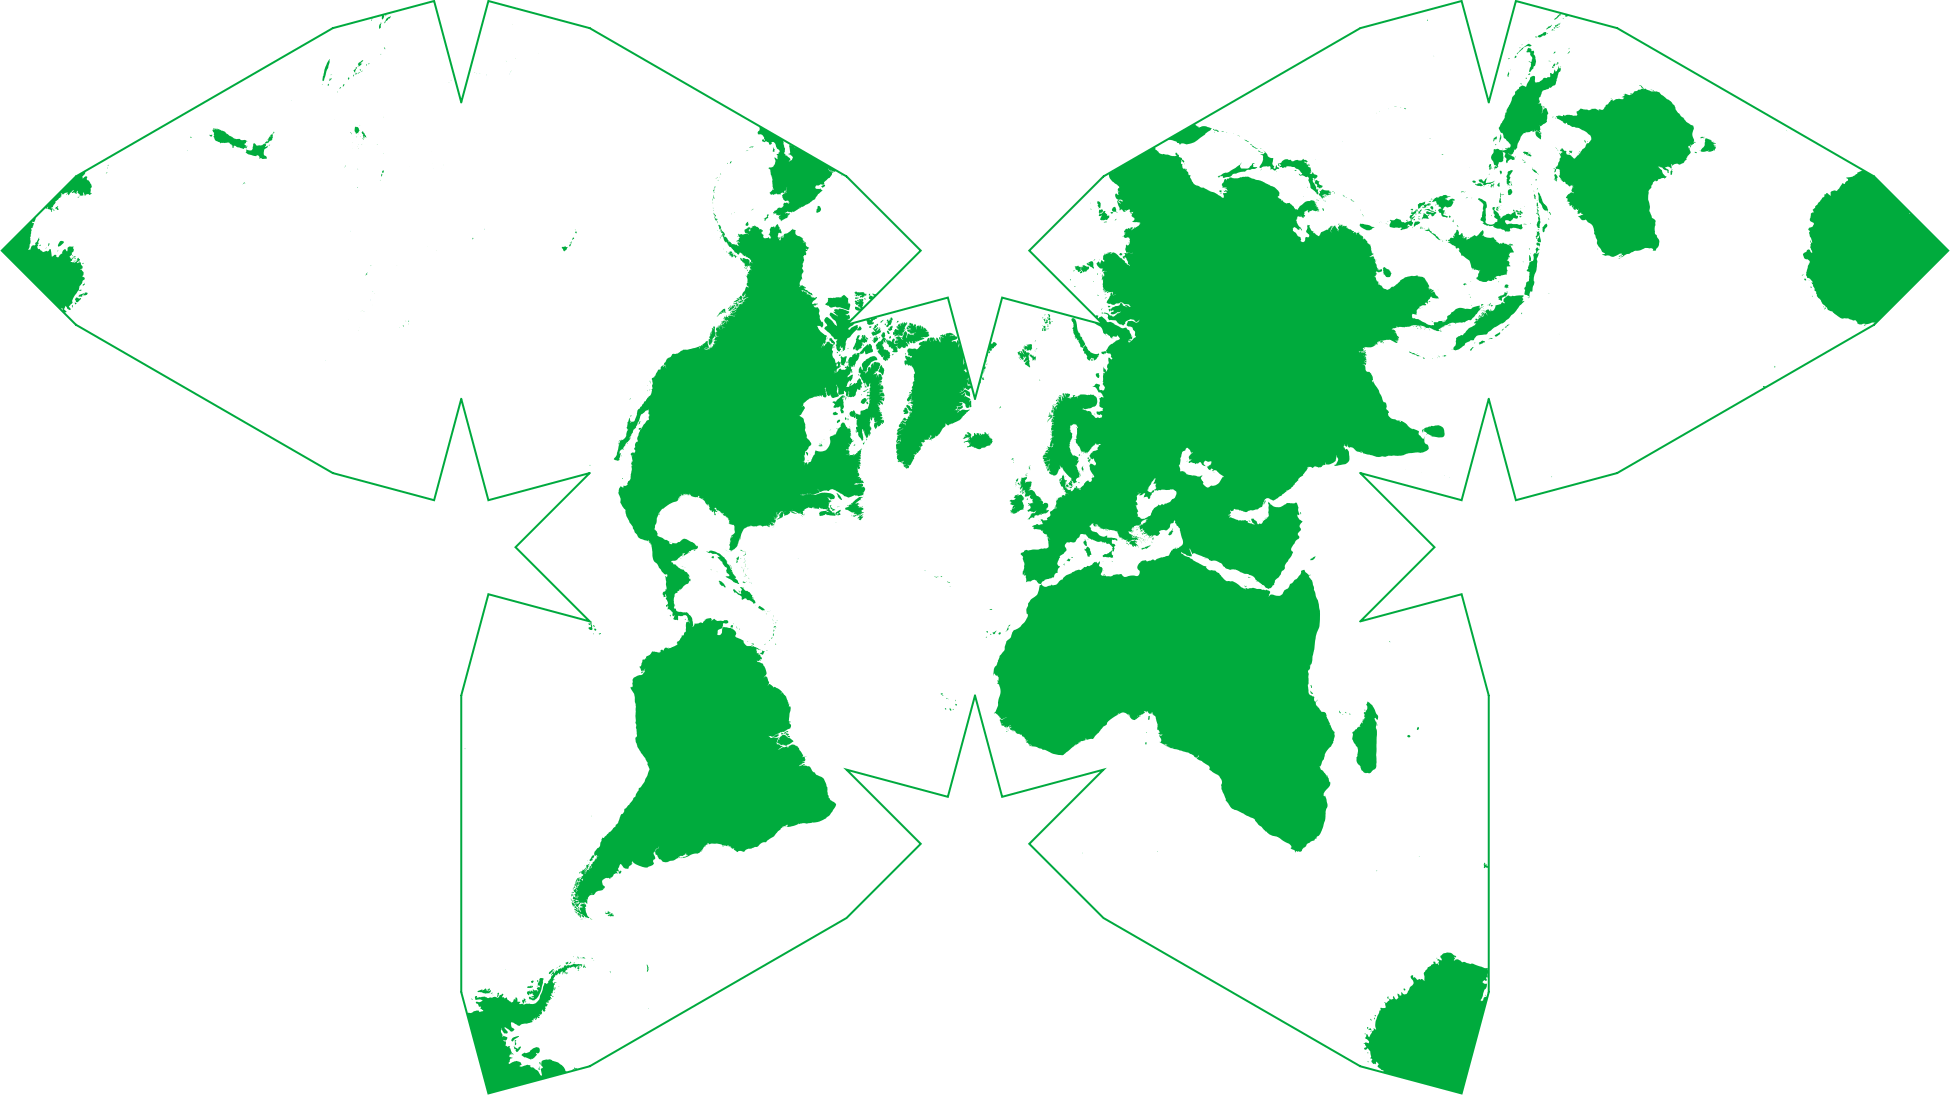
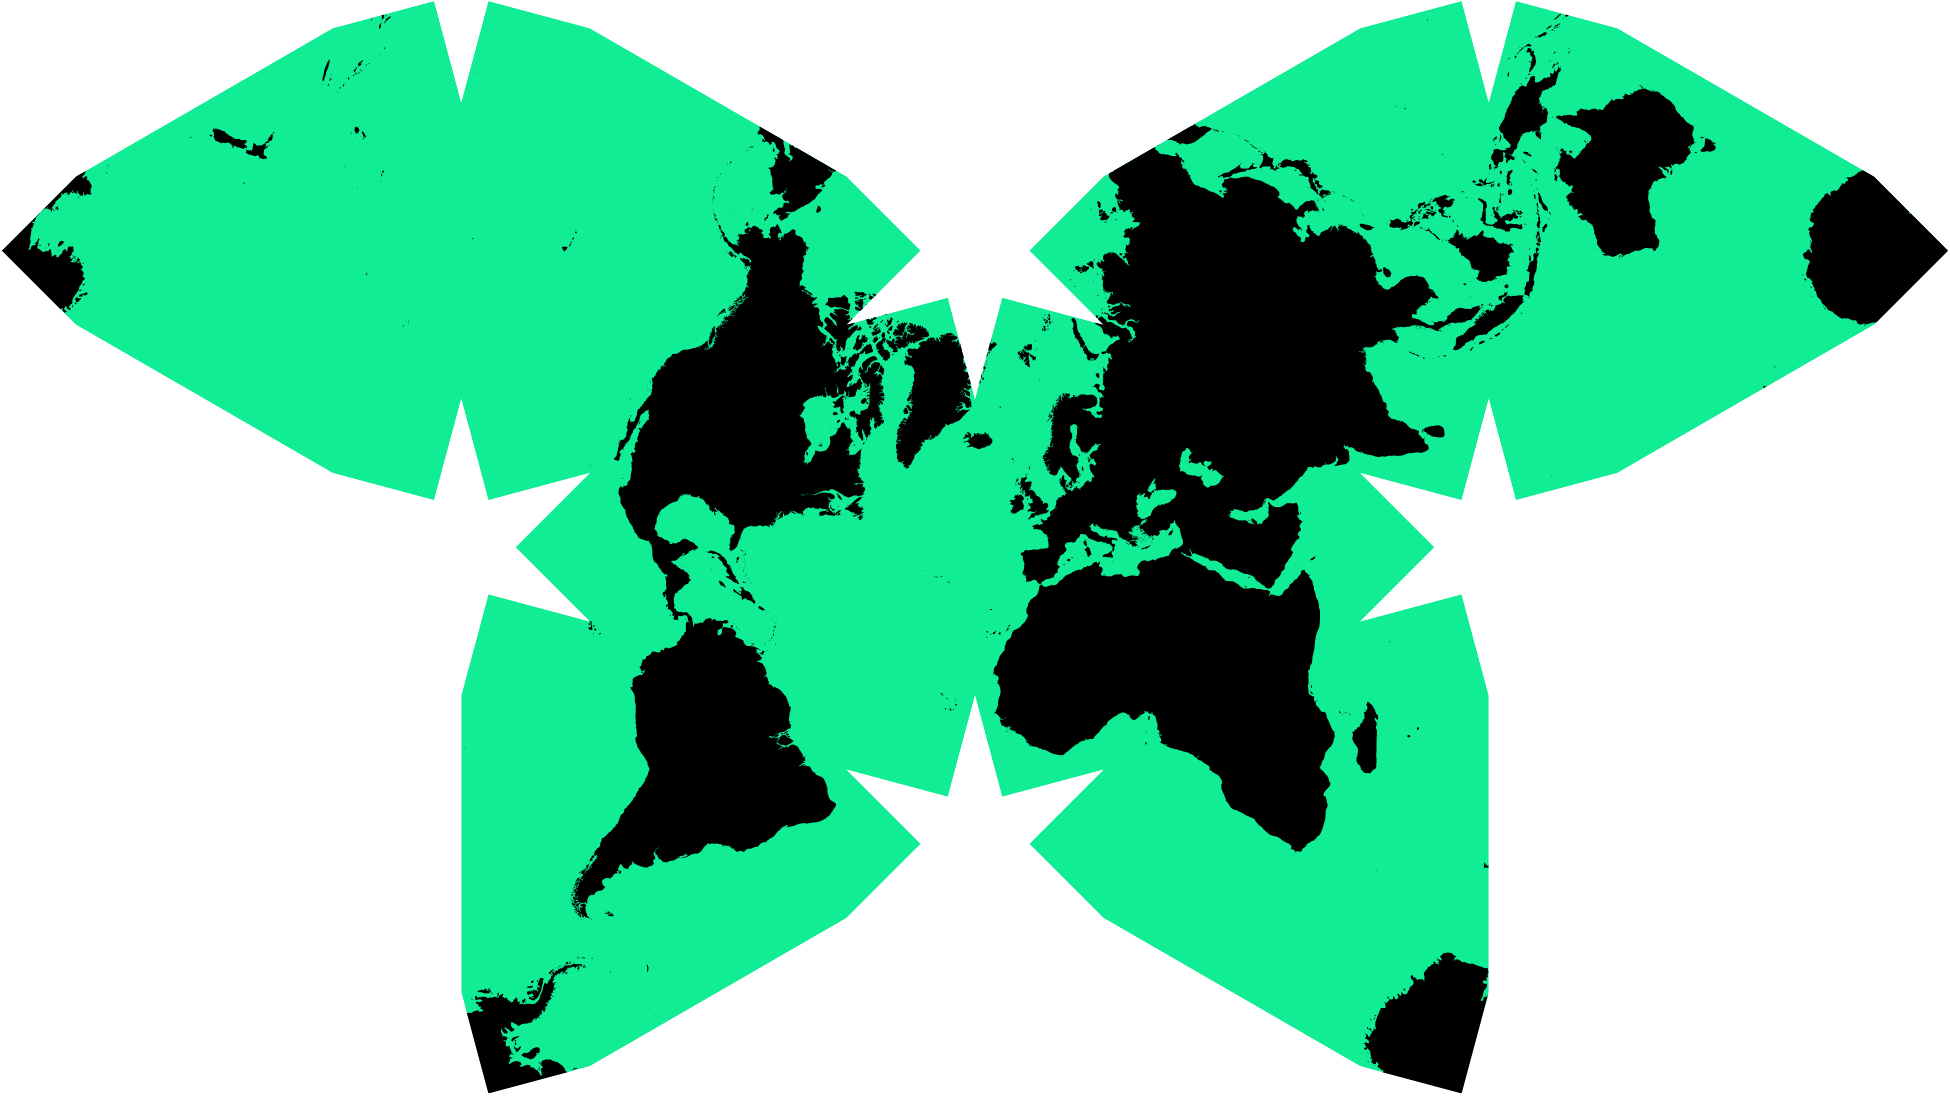
new color

diff --git a/pages/index.vue b/pages/index.vue
@@ -1,7 +1,7 @@
 <template>
   <div class="page-wrapper">
     <header title="Visualisation for Future">
-      <hgroup class="logo"><h1><span>Vis for</span><br />Future</h1></hgroup>
+      <hgroup class="logo"><h1><span>Vis for</span><br /><span>Future</span></h1></hgroup>
       <img src="~/assets/map.png" />
     </header>
     <section>
@@ -35,7 +35,7 @@
       <span class="btn">Submit Visualization</span>
     </section>
     <section>
-      <h2>Timeline</h2>
+      <h2><span>Timeline</span></h2>
       <ul>
         <li><strong>20 Aug:</strong> Call is launched</li>
         <li><strong>05 Sep:</strong> Jury is published</li>
@@ -45,7 +45,7 @@
       </ul>
     </section>
     <section>
-      <h2>Conditions</h2>
+      <h2><span>Conditions</span></h2>
       <ul>
         <li>the visualization should be about climate change and/or its consequences</li>
         <li>visualizations created by the organizers (ᴜᴄʟᴀʙ) are excluded from the competition</li>
@@ -55,14 +55,14 @@
       </ul>
     </section>
     <section>
-      <h2>Who are we</h2>
+      <h2><span>Who are we</span></h2>
       <p>We are a <a href="http://uclab.fh-potsdam.de">visualization research group</a> at the <a href="https://www.fh-potsdam.de/">University of Applied Sciences Potsdam</a>. Our work revolves around data visualization with a particular focus on the challenges and questions arising from social, cultural, and technological transformations. While one of our recent projects focuses on climate change scenarios, we feel there is a broader need to contribute to the growing awareness and ongoing discussions about climate change via well-designed visualizations. Climate change poses new challenges for each and everyone of us and requires transformations in all sectors of our lives. With this competition, we hope to achieve an open process of knowledge transfer in which innovative visualizations inspire people to join in the climate movement and explore paths towards a more sustainable future.</p>
 			<p>If you have any questions, feel free to contact us: <a href="&#0109;&#097;&#0105;&#0108;&#0116;&#0111;&#058;&#0118;&#0102;&#0102;&#064;&#0102;&#0104;&#045;&#0112;&#0111;&#0116;&#0115;&#0100;&#097;&#0109;&#046;&#0100;&#0101;">&#0118;&#0102;&#0102;&#064;&#0102;&#0104;&#045;&#0112;&#0111;&#0116;&#0115;&#0100;&#097;&#0109;&#046;&#0100;&#0101;</a></p>
     </section>
     <footer>
 			<p>
-				<a href="https://uclab.fh-potsdam.de"><img alt="UCLAB logo" style="width:8rem;" src="~/assets/uclab.svg" /></a>
-				<a href="https://www.fh-potsdam.de"><img alt="FHP logo" style="width:12rem; margin:.75rem 1.5rem;" src="~/assets/fhp.svg" /></a>
+				<a class="no-highlight" href="https://uclab.fh-potsdam.de"><img alt="UCLAB logo" style="width:8rem;" src="~/assets/uclab.svg" /></a>
+				<a class="no-highlight" href="https://www.fh-potsdam.de"><img alt="FHP logo" style="width:12rem; margin:.75rem 1.5rem;" src="~/assets/fhp.svg" /></a>
 			</p>
       <p>
 				<a href="https://www.fh-potsdam.de/datenschutzhinweis/">Privacy policy</a><br>
@@ -122,7 +122,7 @@
       // max-width: 500px;
       margin-bottom: $spacing;
 
-      span {
+      span:first-child {
         letter-spacing: -0.01em;
       }
     }

diff --git a/assets/style/typography.scss b/assets/style/typography.scss
@@ -4,24 +4,38 @@ h1 {
 	font-weight: $font-weight-bold;
 	color: $color-accent;
 	font-size: 5rem;
-	background: linear-gradient(to top, transparent 0px, transparent 20px, $color-accent 20px, $color-accent 30px, transparent 30px);
+	background: linear-gradient(to top, transparent 0px, transparent 22px, black 22px, black 108px, transparent 108px);
 	display: inline;
+
+	span {
+		padding: 0 $spacing / 4;
+	}
 }
 
 h2 {
 	font-family: $font-headline;
 	line-height: 1.1;
 	font-weight: $font-weight-bold;
-	color: $color-accent;
+	color: black;
 	font-size: 3rem;
 	margin-bottom: $spacing / 2;
+
+	span {
+		padding: 0 $spacing / 4;
+		background: linear-gradient(to top, transparent 0px, transparent 12px, $color-accent 12px, $color-accent 68px, transparent 68px);
+	}
 }
 
 a {
-	color: $color-accent--dark;
+	color: black;
+	background: linear-gradient(to top, transparent 0px, transparent 2px, $color-accent 2px, $color-accent 5px, transparent 5px);
 
 	&:hover {
-		text-decoration: underline;
+		background: linear-gradient(to top, transparent 0px, transparent 2px, $color-accent 2px, $color-accent 20px, transparent 20px);
+	}
+
+	&.no-highlight {
+		background: none;
 	}
 }
 
@@ -51,7 +65,8 @@ ul {
 }
 
 .btn {
-	background-color: $color-accent;
+	cursor: pointer;
+	background: linear-gradient(to top, black 0px, black 0px, $color-accent 0px, $color-accent 3px, black 3px);
 	color: white;
 	padding: $spacing / 2 $spacing;
 	font-family: $font-headline;
@@ -61,4 +76,8 @@ ul {
 	font-size: 1.3rem;
 	margin: $spacing / 2 0;
 	text-align: center;
+
+	&:hover {
+		background: linear-gradient(to top, black 0px, black 0px, $color-accent 0px, $color-accent 25%, black 25%);
+	}
 }

diff --git a/assets/style/variables.scss b/assets/style/variables.scss
@@ -10,7 +10,7 @@ $base-line-height: 1.7 !default;
 
 $spacing: 2rem !default;
 
-$color-accent: #00ab3d;
+$color-accent: #11ED94;
 $color-accent--dark: darken($color-accent, 10);
 
 $on-tablet-portrait:  600px !default;
